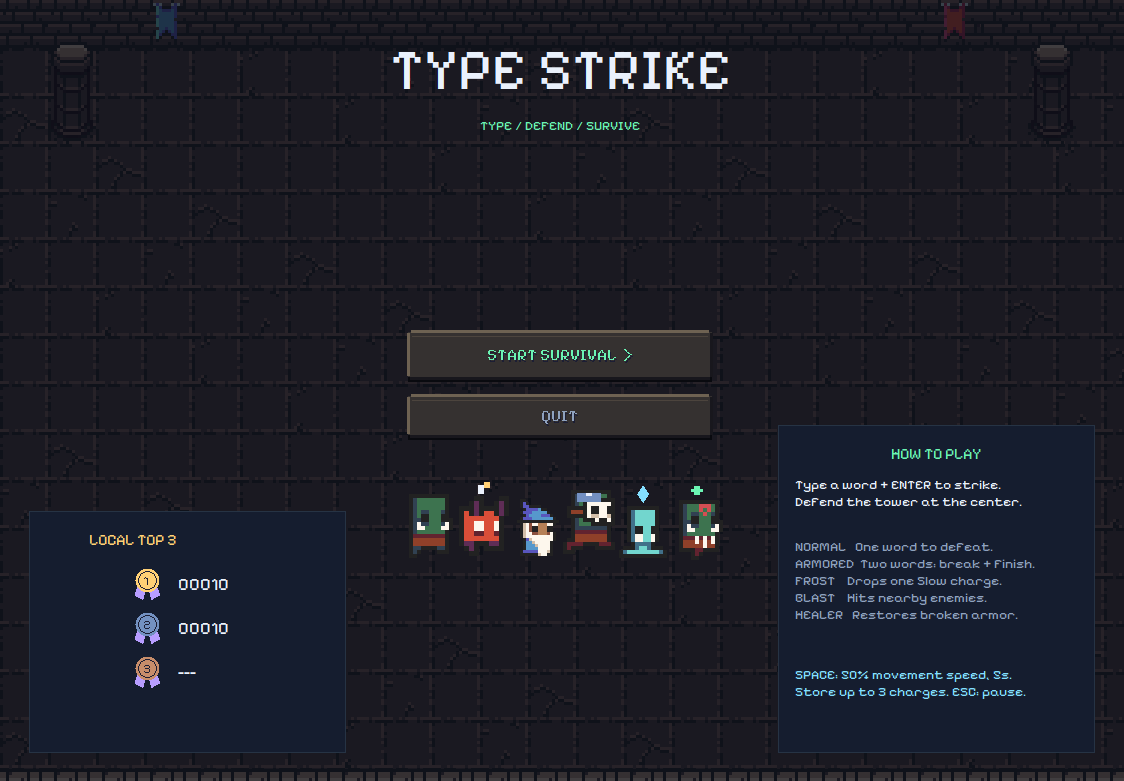
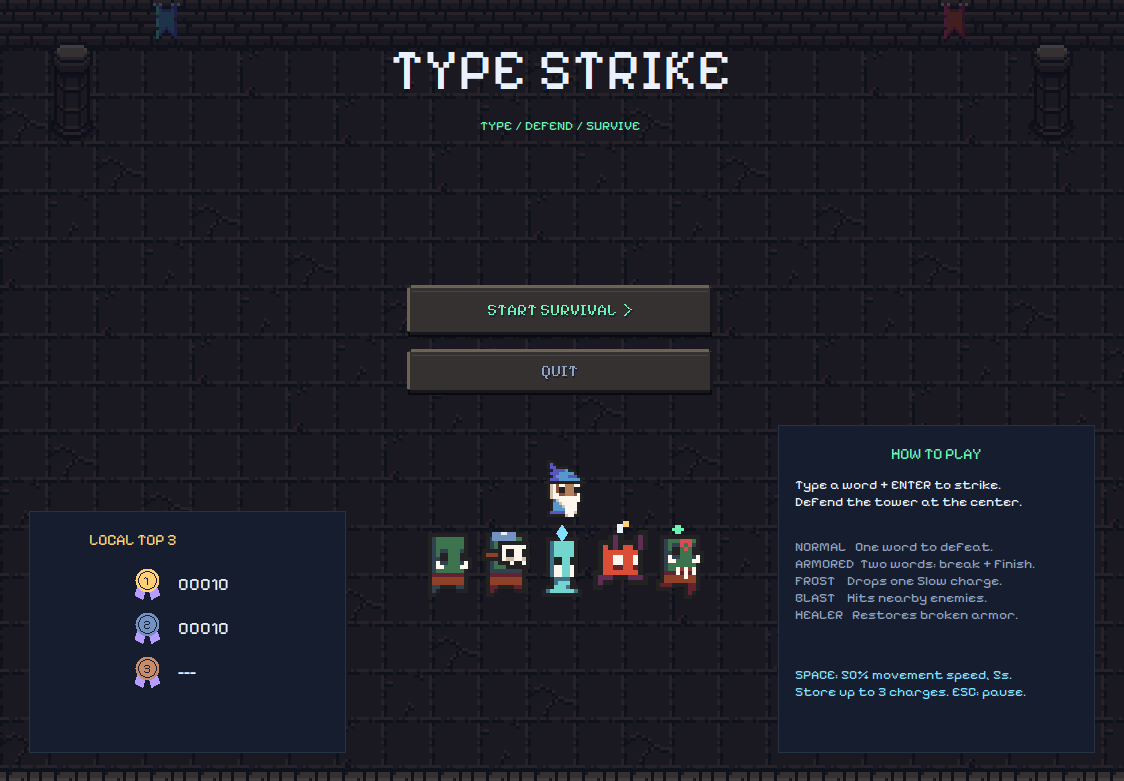
จัดตำแหน่งตัวละครและลดเสียงเพลง (v1.4.4)

Changed region(s): [[0.3425, 0.338, 0.6539, 0.7682]]

diff --git a/src/typestrike/audio/MusicPlayer.java b/src/typestrike/audio/MusicPlayer.java
@@ -54,7 +54,14 @@ public final class MusicPlayer implements AutoCloseable {
         Clip clip = AudioSystem.getClip();
         try (var stream = new BufferedInputStream(resource);
              var decoded = AudioSystem.getAudioInputStream(stream)) {
-            clip.open(decoded);
+            var format = decoded.getFormat();
+            if (format.getSampleSizeInBits() != 16 || format.isBigEndian()
+                    || !format.getEncoding().equals(javax.sound.sampled.AudioFormat.Encoding.PCM_SIGNED)) {
+                throw new IllegalStateException("Expected bundled 16-bit little-endian PCM music");
+            }
+            byte[] samples = decoded.readAllBytes();
+            reduceVolume(samples);
+            clip.open(format, samples, 0, samples.length);
             if (clip.isControlSupported(javax.sound.sampled.FloatControl.Type.MASTER_GAIN)) {
                 var gain = (javax.sound.sampled.FloatControl) clip.getControl(javax.sound.sampled.FloatControl.Type.MASTER_GAIN);
                 gain.setValue(Math.max(gain.getMinimum(), Math.min(gain.getMaximum(), -15f)));
@@ -67,6 +74,16 @@ public final class MusicPlayer implements AutoCloseable {
             public void stop() { clip.stop(); }
             public void close() { clip.close(); }
         };
+    }
+
+    /** Reduce sample amplitude by 30%, including devices without hardware gain controls. */
+    private static void reduceVolume(byte[] samples) {
+        for (int i = 0; i + 1 < samples.length; i += 2) {
+            short original = (short) ((samples[i] & 255) | (samples[i + 1] << 8));
+            short quieter = (short) Math.round(original * 0.7);
+            samples[i] = (byte) quieter;
+            samples[i + 1] = (byte) (quieter >> 8);
+        }
     }
 
     public synchronized void play(Track value) {

diff --git a/src/typestrike/ui/MenuScreen.java b/src/typestrike/ui/MenuScreen.java
@@ -72,22 +72,21 @@ public final class MenuScreen extends GameScreen {
             @Override protected void paintComponent(Graphics graphics) {
                 super.paintComponent(graphics);
                 Graphics2D g = (Graphics2D) graphics.create();
-                int[] positions = {0, 1, 2, 3, 4, 5};
-                int gap = Math.min(54, (getWidth() - 48) / 5);
-                int first = (getWidth() - gap * 5 - 48) / 2;
-                for (int index : positions) {
+                PixelArt.wizard(g, getWidth() / 2 - 32, 10, 4, animationTime);
+                int gap = Math.min(58, (getWidth() - 48) / 4);
+                int first = (getWidth() - gap * 4 - 48) / 2;
+                for (int index = 0; index < 5; index++) {
                     int x = first + index * gap;
-                    if (index == 2) PixelArt.wizard(g, x - 8, 4, 4, animationTime);
-                    else PixelArt.enemy(g, x, 24, 3, index == 3, index == 3,
-                            index == 4, index == 1, index == 5, animationTime + index * 0.1);
+                    PixelArt.enemy(g, x, 108, 3, index == 1, index == 1,
+                            index == 2, index == 3, index == 4, animationTime + index * 0.1);
                 }
                 g.dispose();
             }
         };
         sprites.setName("menu-sprites");
         sprites.setOpaque(false);
-        sprites.setPreferredSize(new Dimension(320, 100));
-        sprites.setMaximumSize(new Dimension(Integer.MAX_VALUE, 100));
+        sprites.setPreferredSize(new Dimension(320, 190));
+        sprites.setMaximumSize(new Dimension(Integer.MAX_VALUE, 190));
         actions.add(sprites);
         actions.add(Box.createVerticalGlue());
         c.gridx = 1; c.weightx = 0.4;

diff --git a/src/typestrike/ui/GameWindow.java b/src/typestrike/ui/GameWindow.java
@@ -37,7 +37,7 @@ public final class GameWindow extends JFrame {
         setSize(1140, 820);
         setLocationRelativeTo(null);
         showScreen("menu", menu);
-        setTitle("Type Strike v1.4.3 | Menu Sprite Size");
+        setTitle("Type Strike v1.4.4 | Menu & Volume");
         addWindowFocusListener(new java.awt.event.WindowAdapter() {
             @Override public void windowLostFocus(java.awt.event.WindowEvent e) {
                 if (current == play) play.pauseIfRunning();
